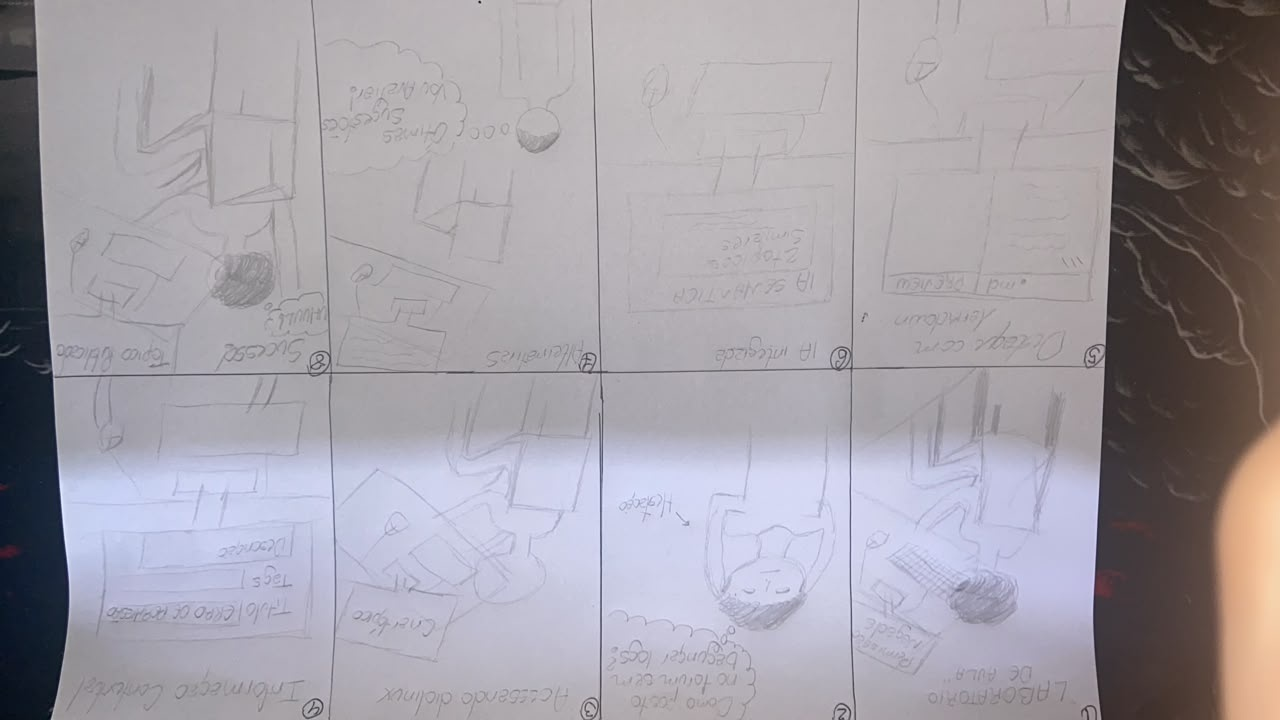
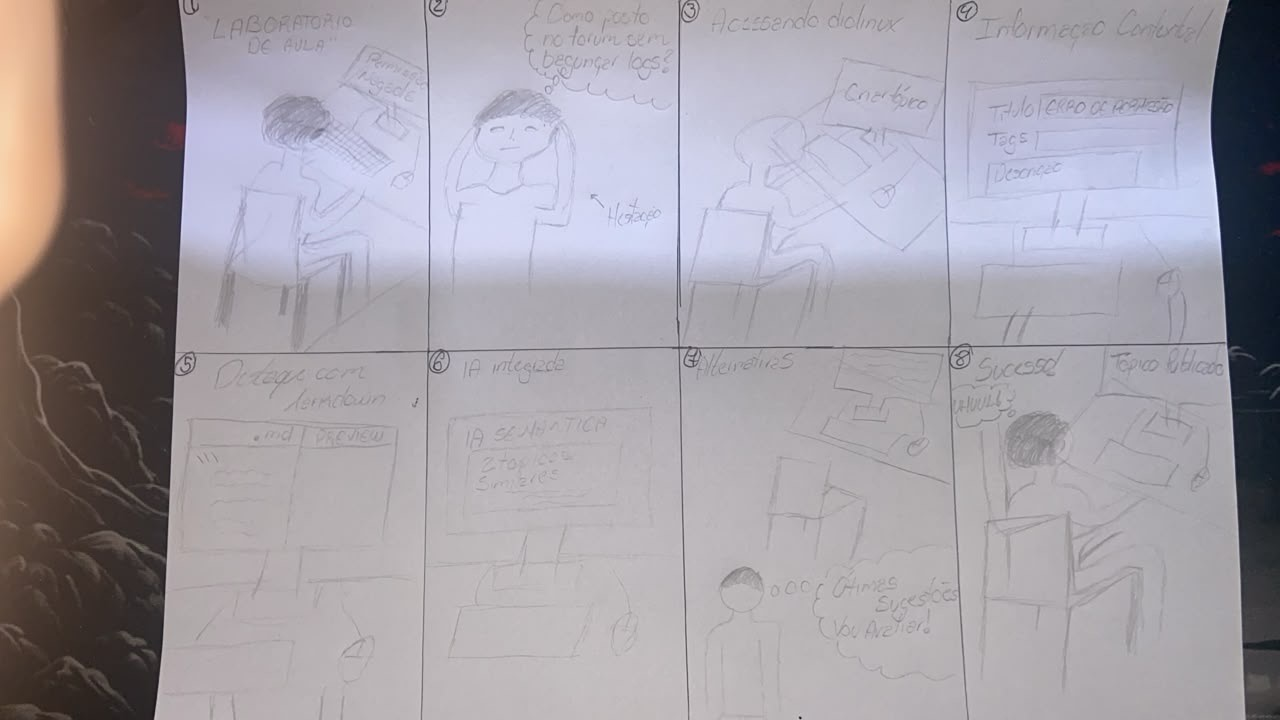
Ajuste do Storyboard de Vinícius

diff --git a/docs/design-avaliacao-desenvolvimento/storyboards.md b/docs/design-avaliacao-desenvolvimento/storyboards.md
@@ -64,10 +64,12 @@ Em estrito atendimento aos critérios de avaliação do Plano de Ensino da disci
 
 A Figura 1 apresenta a prancha desenhada à mão em folha de papel sulfite A4 por Vinicius Silva Araruna, contendo a sequência cronológica completa dos 8 quadros da Tarefa 1.
 
-<div style="text-align: center; margin: 1.5rem 0;">
-    <img src="assets/storyboards/storyboard_Vinicius_Araruna.jpeg" alt="Prancha física do Storyboard 1 de autoria de Vinicius Silva Araruna" style="max-width: 85%; border-radius: 8px; box-shadow: 0 4px 12px rgba(0,0,0,0.15); border: 1px solid #CBD5E1;" />
-    <p style="font-size: 0.85rem; color: #64748B; margin-top: 0.5rem;"><strong>Figura 1</strong> — Prancha original manuscrita do Storyboard 1 (Opção B, 300 DPI) com verificação semântica de IA. <em>Fonte: Vinicius Silva Araruna, 2026.</em></p>
-</div>
+![Figura 1 – Prancha completa do Storyboard 1: Criação de Tópico com Tags, Markdown e Verificação Semântica de IA](assets/storyboards/storyboard_Vinicius_Araruna.jpeg)
+
+<p align="center" style="font-size: 0.85em; color: #64748B;">
+<b>Figura 1</b> — Prancha original manuscrita do Storyboard 1 (Opção B, 300 DPI) com verificação semântica de IA.<br>
+<i>Fonte: Vinicius Silva Araruna, 2026.</i>
+</p>
 
 ---
 
@@ -336,6 +338,7 @@ A Tabela 8 documenta o histórico evolutivo deste artefato.
 | 1.4 | 24/10/2026 | Adição do Storyboard 1 de Vinicius Silva Araruna (digitalização em 300 DPI da prancha física A4 com 8 quadros da Tarefa 1 com IA semântica pré-envio), alinhamento com os 3 pilares de Klemmer e consolidação da tríade de storyboards da equipe. | [Vinicius Silva Araruna](https://github.com/ViniciusA05) | [Gustavo Antonio](https://github.com/gus-ant) |
 | 1.5 | 25/10/2026 | Saneamento de delimitadores LaTeX para caracteres UTF-8 nativos e expurgo de arquivos de instrução interna (Leak-Free). | [Vinicius Silva Araruna](https://github.com/ViniciusA05) | [Gustavo Antonio](https://github.com/gus-ant) |
 | 1.6 | 25/10/2026 | Incorporação dos registros em vídeo da execução do Teste-Piloto (e4annKBJd3I) e da gravação da Avaliação Oficial do Storyboard 1 com o participante J.V.S (_4nQ50nN7b8), e renumeração harmônica e sequencial de todas as tabelas e vídeos da tríade de storyboards. | [Vinicius Silva Araruna](https://github.com/ViniciusA05) | [Gustavo Antonio](https://github.com/gus-ant) |
+| 1.7 | 25/10/2026 | Correção da sintaxe do caminho relativo da imagem da prancha física do Storyboard 1 para correta renderização pelo MkDocs e alinhamento de orientação da imagem (180°). | [Gustavo Antonio](https://github.com/gus-ant) | [Vinicius Silva Araruna](https://github.com/ViniciusA05) |
 
 _Fonte: Elaborada pelos autores, 2026._
 

diff --git a/docs/design-avaliacao-desenvolvimento/nivel-1/storyboard/storyboard-topico-markdown.md b/docs/design-avaliacao-desenvolvimento/nivel-1/storyboard/storyboard-topico-markdown.md
@@ -63,10 +63,12 @@ A narrativa do storyboard materializa diretamente as características e motivaç
 
 A Figura 1 apresenta a prancha completa do Storyboard da Tarefa 1 confeccionada à mão em papel por Vinicius Silva Araruna, contendo a sequência cronológica dos 8 quadros da jornada de interação.
 
-<div style="text-align: center; margin: 1.5rem 0;">
-    <img src="../../assets/storyboards/storyboard_Vinicius_Araruna.jpeg" alt="Prancha física desenhada à mão do Storyboard da Tarefa 1 por Vinicius Silva Araruna" style="max-width: 90%; border-radius: 8px; box-shadow: 0 4px 12px rgba(0,0,0,0.15); border: 1px solid #CBD5E1;" />
-    <p style="font-size: 0.85rem; color: #64748B; margin-top: 0.5rem;"><strong>Figura 1</strong> — Prancha original manuscrita do Storyboard da Tarefa 1 (Opção B). <em>Fonte: Vinicius Silva Araruna, 2026.</em></p>
-</div>
+![Figura 1 – Prancha completa desenhada à mão do Storyboard da Tarefa 1 por Vinicius Silva Araruna](../../assets/storyboards/storyboard_Vinicius_Araruna.jpeg)
+
+<p align="center" style="font-size: 0.85em; color: #64748B;">
+<b>Figura 1</b> — Prancha original manuscrita do Storyboard da Tarefa 1 (Opção B).<br>
+<i>Fonte: Vinicius Silva Araruna, 2026.</i>
+</p>
 
 Conforme ilustrado na Figura 1, a narrativa percorre desde o gatilho emocional no terminal até o encerramento com validação colaborativa na comunidade.
 
